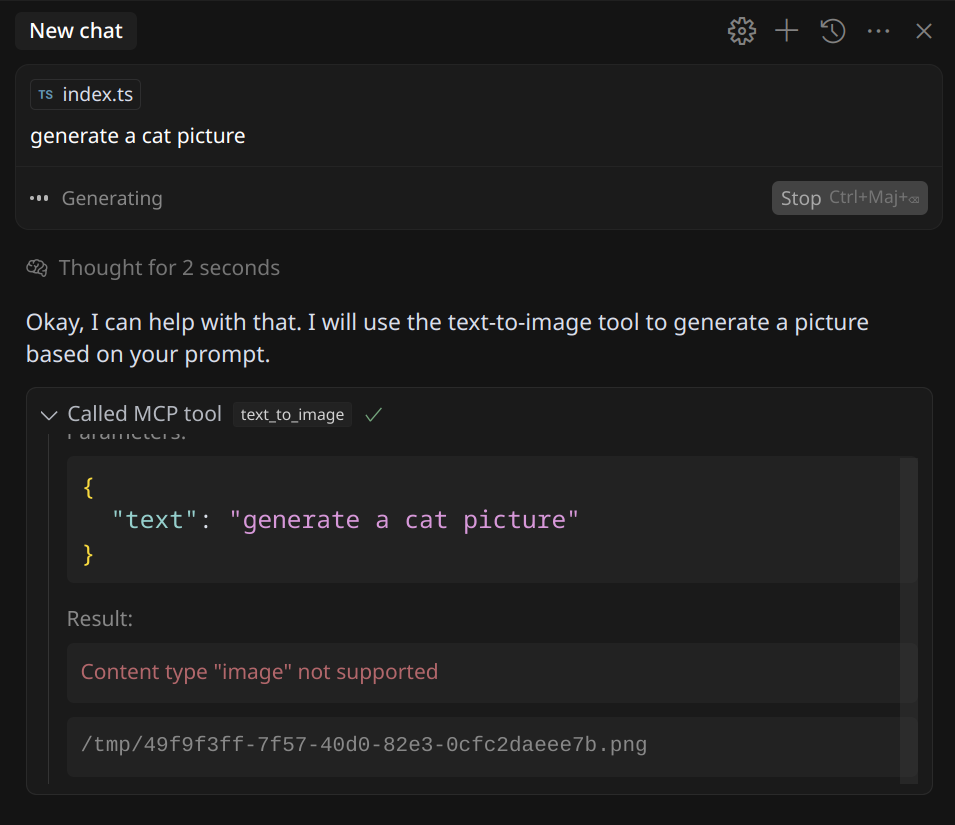
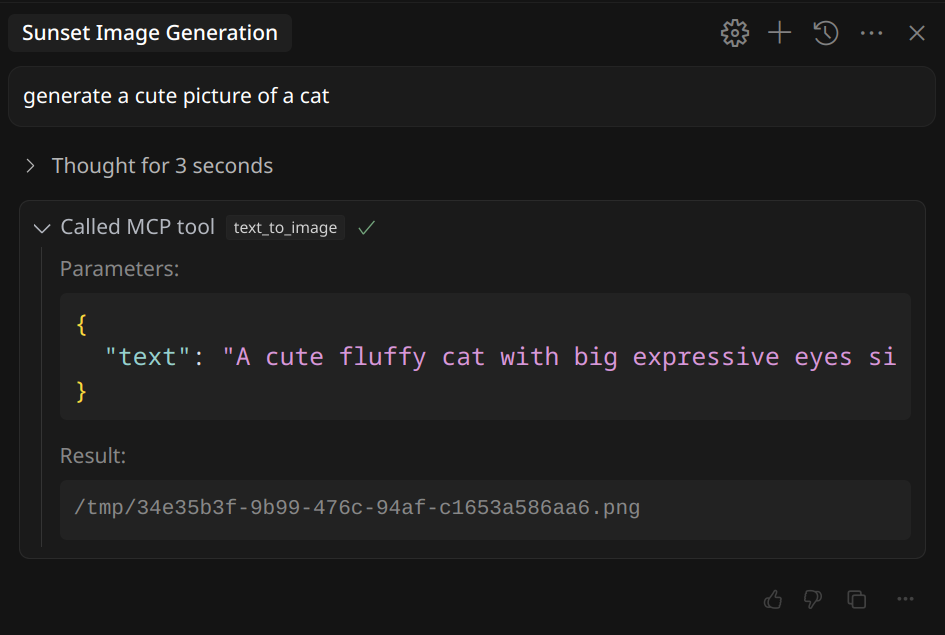
only return output filepath for llm (#3)
* only return output filepath for llm

* update illustration

diff --git a/src/index.ts b/src/index.ts
@@ -84,11 +84,6 @@ server.tool("text-to-image",
 
       return {
         content: [
-          { 
-            type: "image", 
-            data: imageData,
-            mimeType: "image/png"
-          },
           {
             type: "text",
             text: filePath
@@ -150,11 +145,6 @@ server.tool("image-to-image",
 
       return {
         content: [
-          { 
-            type: "image", 
-            data: imageData,
-            mimeType: "image/png"
-          },
           {
             type: "text",
             text: filePath

diff --git a/README.md b/README.md
@@ -146,7 +146,6 @@ Generates an image based on a text prompt.
 **Returns:**
 
 *   `content`: An array containing:
-    *   An `image` object with base64 `data` and `mimeType`.
     *   A `text` object containing the path to the saved temporary image file (e.g., `/tmp/uuid.png`).
 
 ### `image-to-image`
@@ -168,7 +167,6 @@ Edits an existing image based on a text prompt and optional mask.
 **Returns:**
 
 *   `content`: An array containing:
-    *   An `image` object with base64 `data` and `mimeType`.
     *   A `text` object containing the path to the saved temporary image file (e.g., `/tmp/uuid.png`).
 
 ## Development
